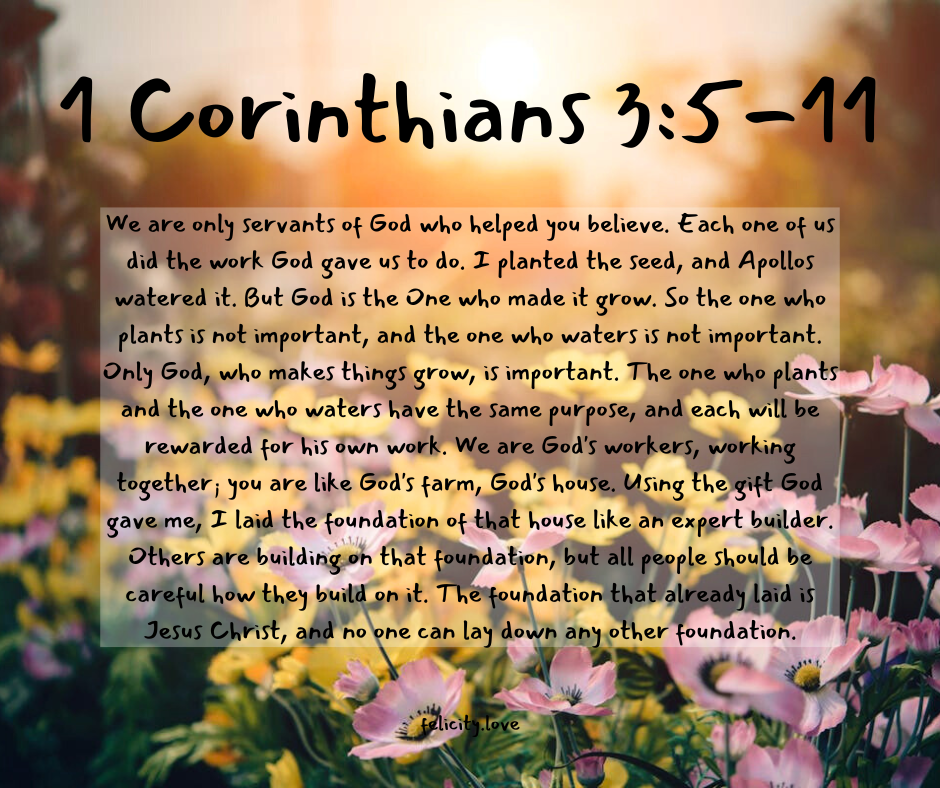
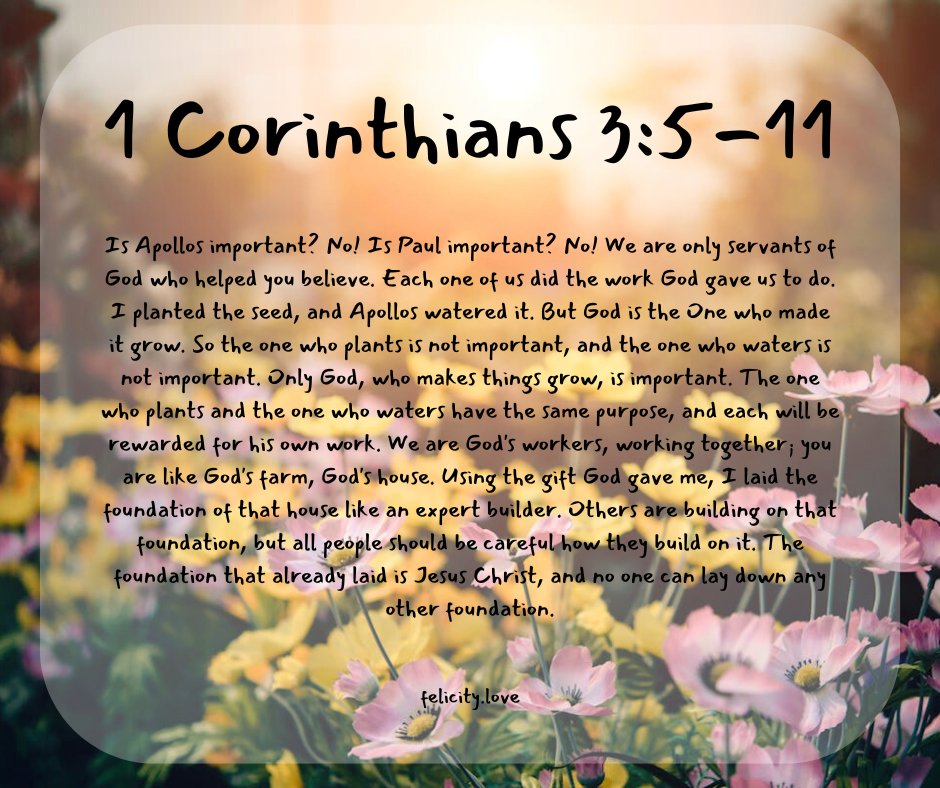
Up-to-date on verses and content.

diff --git a/assets/css/style.scss b/assets/css/style.scss
@@ -8,10 +8,22 @@
     background-image: linear-gradient(120deg, #9b1c31, #4b0063);
 }
 
-.main-content h1 {
+.main-content h1,
+.main-content h2,
+.main-content h3 {
     color: #202020;
 }
 
+a.back-to-home {
+    padding: 1rem;
+    background-color: rgba($color: #ccc, $alpha: .5);
+    border-radius: 12px;
+}
+
+a.back-to-home:hover {
+    padding: 1.2rem;
+    text-decoration: none;
+}
 // featured image re-sizing
 
 // p img {
@@ -24,14 +36,14 @@
     }
 }
 
-@media (min-width: 380px) {
+@media (min-width: 430px) {
 
     p img {
         width: 50%;
     }
 }
 
-@media (max-width: 380px) {
+@media (max-width: 430px) {
     main {
         text-align: center;
     }

diff --git a/_layouts/post.html b/_layouts/post.html
@@ -5,7 +5,5 @@ layout: default
     <h1>{{ page.title }}</h1>
     <p>{{ page.date | date_to_string }} - {{ page.author }}</p>
     {{ content }}
-    <div>
-        <a href="{{ site.baseurl }}/" class="back-to-home">Back to Home</a>
-    </div>
+    <a href="{{ site.baseurl }}/" class="back-to-home">Back to Home</a>
 </main>

diff --git a/_posts/2024-04-10-morning.md b/_posts/2024-04-10-morning.md
@@ -1,0 +1,19 @@
+---
+layout: post
+author: Joey
+date: 2024-04-10 07:18:28 -0500
+featured_image: "/img/041024_daily_devotional_morning.png"
+title: April 10th Morning Devotional
+---
+
+[![April 10th 2024 - Morning Devotional](/img/041024_daily_devotional_morning.png)](/img/041024_daily_devotional_morning.png)
+
+James 1:2-8
+
+My brothers and sisters, when you have many kinds of troubles, you should be full of joy, because you know that these troubles test your faith, and this will give you patience. Let your patience show itself perfectly in what you do. Then you will be perfect and complete and will have everything you need. But if any of you needs wisdom, you should ask God for it. He is generous to everyone and will give you wisdom without criticizing you. But when you ask God, you must believe and not doubt. Anyone who doubts is like a wave in the sea, blown up and down by the wind. Such doubters are thinking two different things at the same time, and they cannot decide about anything they do. They should not think they will receive anything from the Lord.
+
+[![April 10th 2024 - Morning Devotional _1](/img/041024_daily_devotional_morning_1.png)](/img/041024_daily_devotional_morning_1.png)
+
+1 Peter 5:8-9
+
+Be alert and of sober mind. Your enemy the devil prowls around like a roaring lion looking for someone to devour. Resist him, standing firm in the faith, because you know that the family of believers throughout the world is undergoing the same kind of sufferings.

diff --git a/_posts/2024-04-10-evening.md b/_posts/2024-04-10-evening.md
@@ -1,0 +1,17 @@
+---
+layout: post
+author: Joey
+date: 2024-04-10 17:18:28 -0500
+featured_image: "/img/041024_daily_devotional_night.png"
+title: April 10th Evening Devotional
+---
+
+[![April 10th 2024 - Evening Devotional](/img/041024_daily_devotional_night.png)](/img/041024_daily_devotional_night.png)
+
+Luke 12:22-32
+
+Then Jesus said to his disciples: “Therefore I tell you, do not worry about your life, what you will eat; or about your body, what you will wear. For life is more than food, and the body more than clothes. Consider the ravens: They do not sow or reap, they have no storeroom or barn; yet God feeds them. And how much more valuable you are than birds! Who of you by worrying can add a single hour to your life? Since you cannot do this very little thing, why do you worry about the rest?
+
+“Consider how the wild flowers grow. They do not labor or spin. Yet I tell you, not even Solomon in all his splendor was dressed like one of these. If that is how God clothes the grass of the field, which is here today, and tomorrow is thrown into the fire, how much more will he clothe you—you of little faith! And do not set your heart on what you will eat or drink; do not worry about it. For the pagan world runs after all such things, and your Father knows that you need them. But seek his kingdom, and these things will be given to you as well.
+
+

diff --git a/_posts/2024-04-08-evening.md b/_posts/2024-04-08-evening.md
@@ -1,0 +1,13 @@
+---
+layout: post
+author: Joey
+date: 2024-04-08 17:18:28 -0500
+featured_image: "/img/040824_daily_devotional_night.png"
+title: April 8th Evening Devotional
+---
+
+[![April 8th 2024 - Evening Devotional](/img/040824_daily_devotional_night.png)](/img/040824_daily_devotional_night.png)
+
+1 Corinthians 3:5-11
+
+Is Apollos important? No! Is Paul important? No! We are only servants of God who helped you believe. Each one of us did the work God gave us to do. I planted the seed, and Apollos watered it. But God is the One who made it grow. So the one who plants is not important, and the one who waters is not important. Only God, who makes things grow, is important. The one who plants and the one who waters have the same purpose, and each will be rewarded for his own work. We are God’s workers, working together; you are like God’s farm, God’s house. Using the gift God gave me, I laid the foundation of that house like an expert builder. Others are building on that foundation, but all people should be careful how they build on it. The foundation that has already been laid is Jesus Christ, and no one can lay down any other foundation.

diff --git a/_posts/2024-04-13-morning.md b/_posts/2024-04-13-morning.md
@@ -1,0 +1,18 @@
+---
+layout: post
+author: Joey
+date: 2024-04-13 07:18:28 -0500
+featured_image: "/img/041324_daily_devotional_morning.png"
+title: April 13th Morning Devotional
+---
+
+[![April 13th 2024 - Morning Devotional](/img/041324_daily_devotional_morning.png)](/img/041324_daily_devotional_morning.png)
+
+2 Corinthians 9:6-11
+
+Remember this: Whoever sows sparingly will also reap sparingly, and whoever sows generously will also reap generously. Each of you should give what you have decided in your heart to give, not reluctantly or under compulsion, for God loves a cheerful giver. And God is able to bless you abundantly, so that in all things at all times, having all that you need, you will abound in every good work. As it is written:
+
+“They have freely scattered their gifts to the poor;
+    their righteousness endures forever.”
+
+Now he who supplies seed to the sower and bread for food will also supply and increase your store of seed and will enlarge the harvest of your righteousness. You will be enriched in every way so that you can be generous on every occasion, and through us your generosity will result in thanksgiving to God.

diff --git a/_posts/2024-04-14-morning.md b/_posts/2024-04-14-morning.md
@@ -1,0 +1,21 @@
+---
+layout: post
+author: Joey
+date: 2024-04-14 07:18:28 -0500
+featured_image: "/img/041424_daily_devotional_morning.png"
+title: April 14th Morning Devotional
+---
+
+[![April 14th 2024 - Morning Devotional](/img/041424_daily_devotional_morning.png)](/img/041424_daily_devotional_morning.png)
+
+Matthew 9:37    
+
+He said to his disciples, "The harvest is great, but the workers are few."
+
+## Diving Deeper into the Message
+
+[John 4](https://www.biblegateway.com/passage/?search=John%204&version=NIV){:target="_blank"}
+
+The point of weekly worship is not **attendance**; it's **participation** in the body of Christ.
+
+Being a follower of Jesus Christ is not about following rules or religious traditions. We surrender to God by dying to our sin and living in Jesus Christ so we may love all perfectly. An unconditional love is one only God can provide. By surrendering fully - mind, body, and soul - to God, we allow ourselves to accept his blessings in full. The harvest is great, and the hard work has already been done. It is our only calling to be God's humble servants. To deliver the Good News through his perfect love.

diff --git a/_posts/2024-04-09-evening.md b/_posts/2024-04-09-evening.md
@@ -1,0 +1,17 @@
+---
+layout: post
+author: Joey
+date: 2024-04-09 17:18:28 -0500
+featured_image: "/img/040924_daily_devotional_night.png"
+title: April 9th Evening Devotional
+---
+
+[![April 9th 2024 - Evening Devotional](/img/040924_daily_devotional_night.png)](/img/040924_daily_devotional_night.png)
+
+2 Corinthians 8:7-11
+
+You are rich in everything—in faith, in speaking, in knowledge, in truly wanting to help, and in the love you learned from us. In the same way, be strong also in the grace of giving.
+
+I am not commanding you to give. But I want to see if your love is true by comparing you with others that really want to help. You know the grace of our Lord Jesus Christ. You know that Christ was rich, but for you he became poor so that by his becoming poor you might become rich.
+
+This is what I think you should do: Last year you were the first to want to give, and you were the first who gave. So now finish the work you started. Then your “doing” will be equal to your “wanting to do.” Give from what you have.

diff --git a/_posts/2024-04-17-morning.md b/_posts/2024-04-17-morning.md
@@ -1,0 +1,18 @@
+---
+layout: post
+author: Joey
+date: 2024-04-17 07:18:28 -0500
+featured_image: "/img/041724_daily_devotional_morning.png"
+title: April 17th Morning Devotional
+---
+
+[![April 17th 2024 - Morning Devotional](/img/041724_daily_devotional_morning.png)](/img/041724_daily_devotional_morning.png)
+
+Romans 11:32-33
+
+God has given all people over to their stubborn ways so that he can show mercy to all. Yes God's riches are very great, and his wisdom and knowledge have no end! No one can explain the things God decides or understand his ways. 
+
+### Further Books that Resonated with Me When Reflecting On Romans 11:32-33
+- [Romans 12](https://www.biblegateway.com/passage/?search=Romans+12&version=NIV){:target="_blank"}
+- [Romans 15](https://www.biblegateway.com/passage/?search=Romans%2015&version=NIV){:target="_blank"}
+- [Ecclesiastes 11](https://www.biblegateway.com/passage/?search=Ecclesiastes%2011&version=NIV){:target="_blank"}

diff --git a/_posts/2024-04-08-morning.md b/_posts/2024-04-08-morning.md
@@ -1,13 +1,13 @@
 ---
 layout: post
 author: Joey
-date: 2024-04-08 17:18:28 -0500
+date: 2024-04-08 07:18:28 -0500
 featured_image: "/img/040824_daily_devotional_morning.png"
-title: Morning Devotional
+title: April 8th Morning Devotional
 ---
 
-![April 8th 2024 - Morning](/img/040824_daily_devotional_morning.png)
+[![April 8th 2024 - Morning Devotional](/img/040824_daily_devotional_morning.png)](/img/040824_daily_devotional_morning.png)
 
-Acts 3:25-25
+Acts 3:25-26
 
 You are descendants of the prophets. You have received the agreement God made with your ancestors. He said to your father Abraham, 'Through your descendants all the nations on earth will be blessed.' God has raised up his servant Jesus and sent him to you first to bless you by turning each of you away from doing evil.

diff --git a/_posts/2024-04-16-morning.md b/_posts/2024-04-16-morning.md
@@ -1,0 +1,13 @@
+---
+layout: post
+author: Joey
+date: 2024-04-16 07:18:28 -0500
+featured_image: "/img/041624_daily_devotional_morning.png"
+title: April 16th Morning Devotional
+---
+
+[![April 16th 2024 - Morning Devotional](/img/041624_daily_devotional_morning.png)](/img/041624_daily_devotional_morning.png)
+
+Romans 12:1-2
+
+So brothers and sisters, since God has shown us great mercy, I beg you to offer your lives as a living sacrifice to him. Your offering must be only for God and pleasing to him, which is the spiritual way for you to worship. Do not change yourselves to be like the people of this world, but be changed within by a new way of thinking. Then you will be able to decide what God wants for you; you will know what is good and pleasing to him and what is perfect. 

diff --git a/_posts/2024-04-15-morning.md b/_posts/2024-04-15-morning.md
@@ -1,0 +1,13 @@
+---
+layout: post
+author: Joey
+date: 2024-04-15 07:18:28 -0500
+featured_image: "/img/041524_daily_devotional_morning.png"
+title: April 15th Morning Devotional
+---
+
+[![April 15th 2024 Morning Devotional](/img/041524_daily_devotional_morning.png)](/img/041524_daily_devotional_morning.png)
+
+2 Corinthians 3:17-18
+
+Now the Lord is the Spirit, and where the Spirit of the Lord is, there is freedom. And we, who with unveiled faces all reflect the Lord's glory, are being transformed into his likeness with ever-increasing glory, which comes from the Lord, who is the Spirit.
